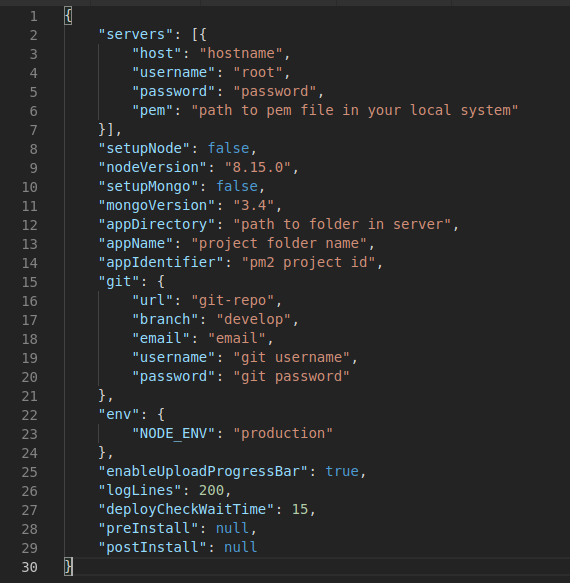
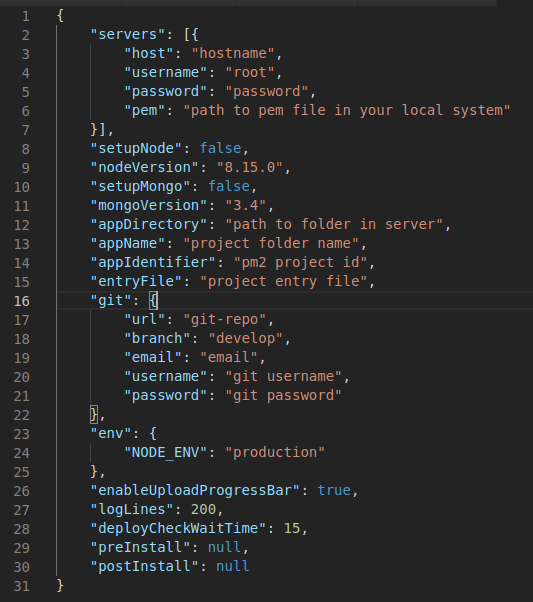
entryFile key added for dynamic server file of project

diff --git a/lib/taskLists/linux.js b/lib/taskLists/linux.js
@@ -90,6 +90,7 @@ exports.setup = function (config, isVerbose, osName) {
             appDirectory: config.appDirectory,
             appIdentifier: config.appIdentifier,
             gitData: config.git,
+            entryFile: config.entryFile,
             nodeEnv: config.env.NODE_ENV || 'production'
         }
     };

diff --git a/README.md b/README.md
@@ -12,7 +12,7 @@ npm install -g https://github.com/mahidaparth7/node-deploy
 ----------------
 
 # Step 2: Customize your config
-### There are a minimum of 10 properties in your config that need to be changed.
+### There are a minimum of 11 properties in your config that need to be changed.
 
 **For each server:**
 - host - IP Address of the server
@@ -28,6 +28,7 @@ npm install -g https://github.com/mahidaparth7/node-deploy
 - appDirectory: Set Folder path in which you want to setup app
 - appName: App name Which will be created in appDirectory for project
 - appIdentifier: App Id for pm2 server
+- entryFile: Server file of project with extension. for eg: app.js or server.js)
 
 **For Git Setup {Fields inside git key}**
 - url: project git repo url
